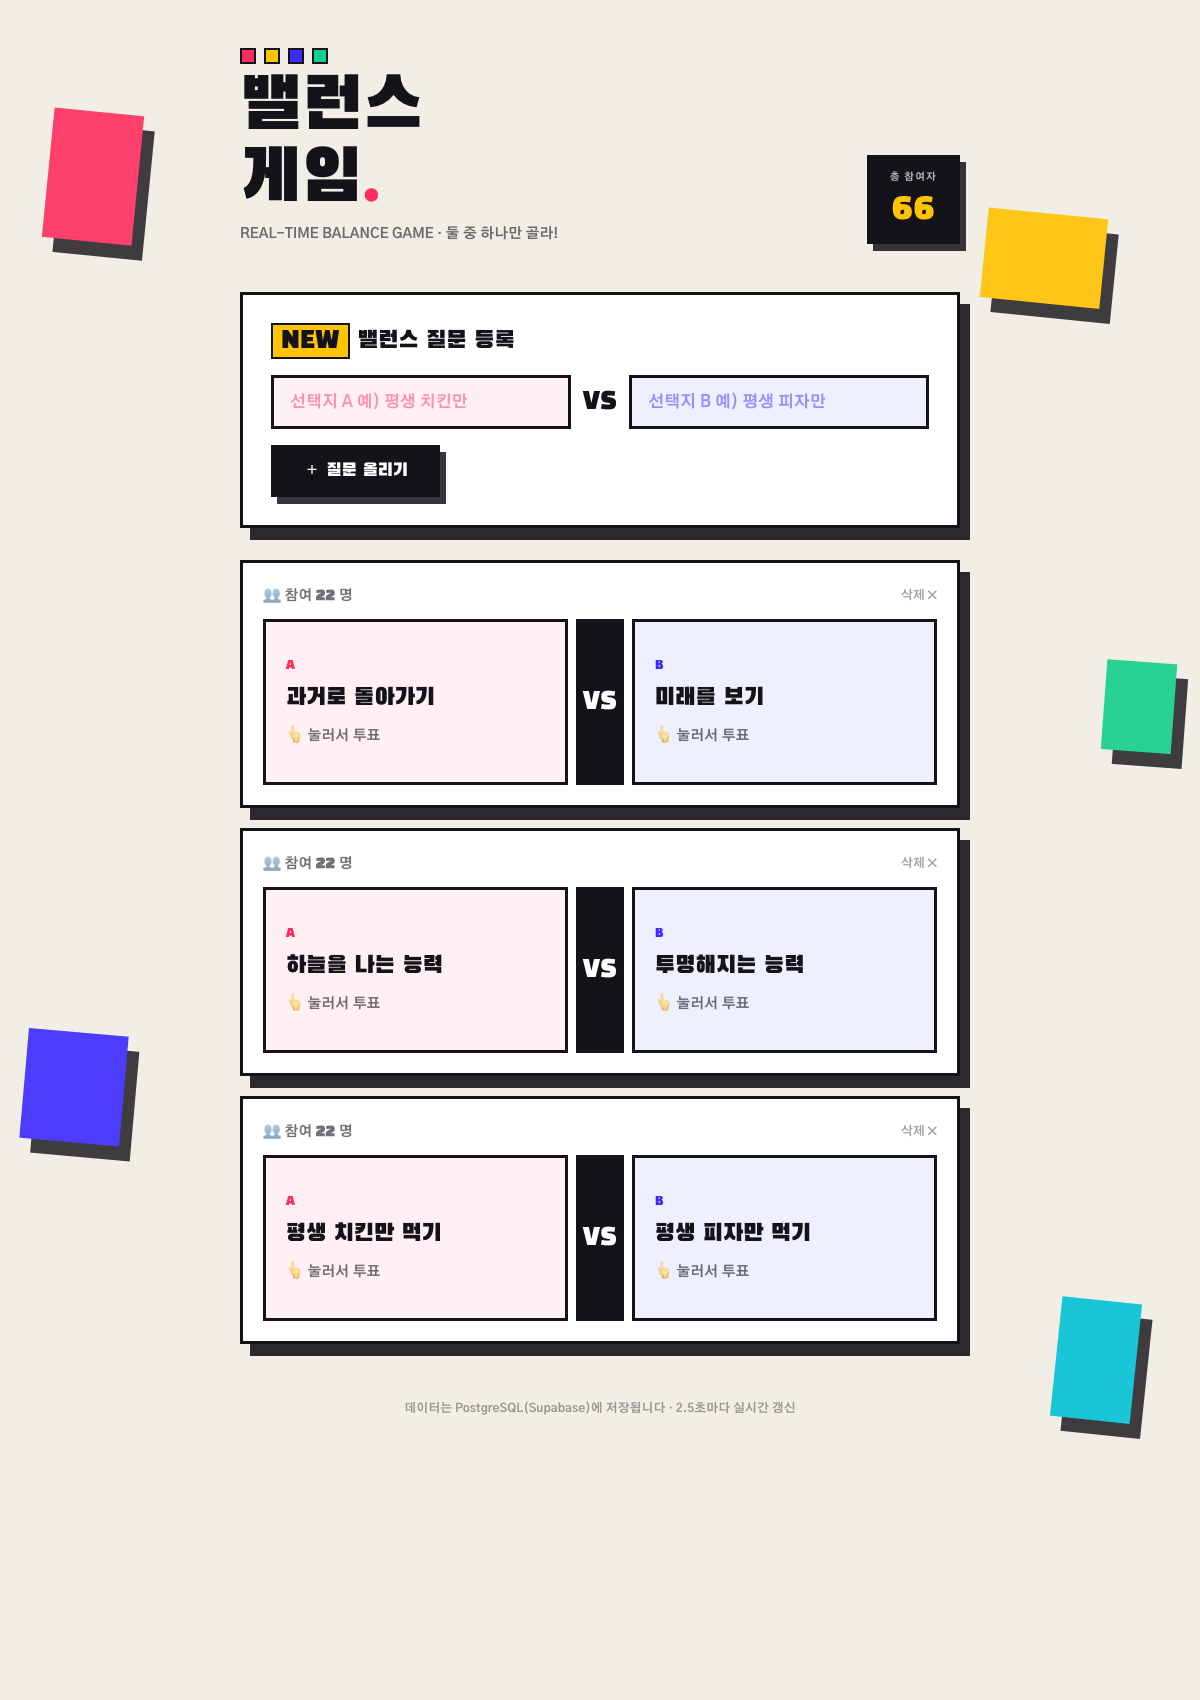
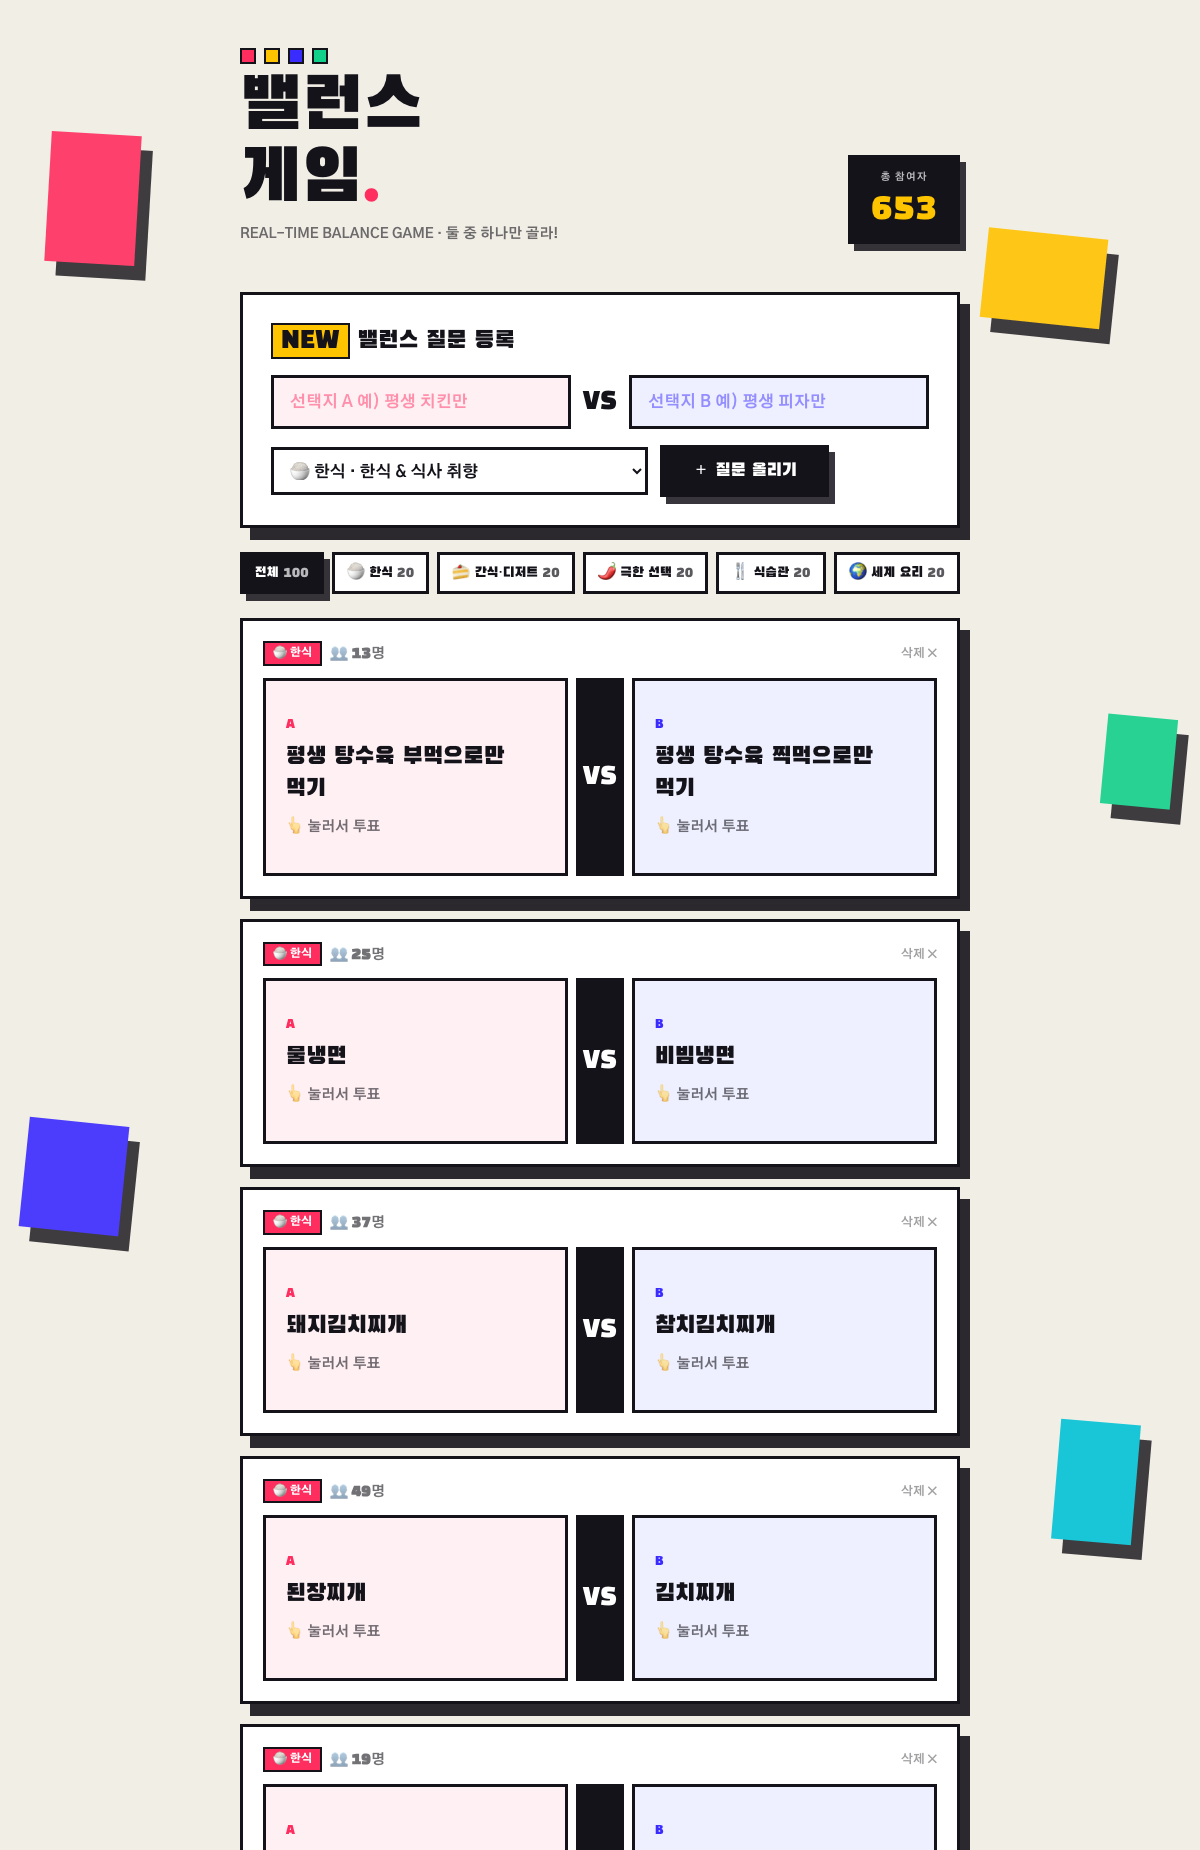
Load Food Balance 100 questions with category tabs
Food Balance.json의 음식 밸런스 100문항(카테고리 5종×20)을 DB에 시드.
balance_questions에 category 컬럼 추가, 카테고리 필터 탭 + 등록 폼 카테고리
선택 + 카드 카테고리 배지 추가. README/스크린샷 갱신.

diff --git a/0609NewTesttt/Week4/Homework4/05-1 NewbalanceGm/index.html b/0609NewTesttt/Week4/Homework4/05-1 NewbalanceGm/index.html
@@ -72,9 +72,9 @@
 
     const api = {
       list: () => fetch('/api/questions').then(r => r.json()),
-      add:  (optionA, optionB) => fetch('/api/questions', {
+      add:  (optionA, optionB, category) => fetch('/api/questions', {
         method: 'POST', headers: { 'Content-Type': 'application/json' },
-        body: JSON.stringify({ optionA, optionB }),
+        body: JSON.stringify({ optionA, optionB, category }),
       }).then(r => r.json()),
       vote: (id, choice) => fetch(`/api/questions/${id}/vote`, {
         method: 'POST', headers: { 'Content-Type': 'application/json' },
@@ -87,6 +87,16 @@
     const VOTED_KEY = 'balance_voted_v1';
     const loadVoted = () => { try { return JSON.parse(localStorage.getItem(VOTED_KEY)) || {}; } catch { return {}; } };
     const saveVoted = (m) => localStorage.setItem(VOTED_KEY, JSON.stringify(m));
+
+    // 카테고리 메타 (Food Balance.json 기준) — 탭 라벨 + 강조 색
+    const CATEGORIES = [
+      { key: 'korean_food',    tab: '🍚 한식',      full: '한식 & 식사 취향',            color: '#ff2e5f' },
+      { key: 'snack_dessert',  tab: '🍰 간식·디저트', full: '간식 & 디저트 & 야식',          color: '#ffc400' },
+      { key: 'extreme_choice', tab: '🌶 극한 선택',   full: '평생 하나만 먹기',             color: '#3a2bff' },
+      { key: 'eating_habit',   tab: '🍴 식습관',     full: '먹방 & 식습관',               color: '#00c2d6' },
+      { key: 'global_food',    tab: '🌍 세계 요리',   full: '양식 & 일식 & 중식 & 세계 요리', color: '#11d08a' },
+    ];
+    const CAT_BY_KEY = Object.fromEntries(CATEGORIES.map(c => [c.key, c]));
 
     // ----- 배경 3D 도형 -----
     function Shapes() {
@@ -110,6 +120,7 @@
     function NewQuestion({ onAdd }) {
       const [a, setA] = useState('');
       const [b, setB] = useState('');
+      const [cat, setCat] = useState(CATEGORIES[0].key);
       const [busy, setBusy] = useState(false);
       const [err, setErr] = useState('');
 
@@ -117,7 +128,7 @@
         e.preventDefault();
         if (!a.trim() || !b.trim()) { setErr('두 선택지를 모두 입력해 주세요.'); return; }
         setBusy(true); setErr('');
-        const res = await api.add(a.trim(), b.trim());
+        const res = await api.add(a.trim(), b.trim(), cat);
         setBusy(false);
         if (res.success) { setA(''); setB(''); onAdd(); }
         else setErr(res.message || '등록 실패');
@@ -139,10 +150,16 @@
               className="w-full bg-[#eef0ff] border-[3px] border-[#15131a] px-4 py-3 font-bold outline-none focus:bg-white placeholder:text-[#3a2bff]/50" />
           </div>
           {err && <p className="mt-3 text-[#ff2e5f] font-bold text-sm">⚠ {err}</p>}
-          <button disabled={busy}
-            className="display mt-4 w-full sm:w-auto bg-[#15131a] text-white text-lg px-8 py-3 block3d-sm hover:translate-x-[2px] hover:translate-y-[2px] hover:shadow-none transition active:scale-95 disabled:opacity-50">
-            {busy ? '등록 중…' : '＋ 질문 올리기'}
-          </button>
+          <div className="mt-4 flex flex-wrap items-center gap-3">
+            <select value={cat} onChange={e=>setCat(e.target.value)}
+              className="border-[3px] border-[#15131a] bg-white px-3 py-3 font-bold outline-none cursor-pointer">
+              {CATEGORIES.map(c => <option key={c.key} value={c.key}>{c.tab} · {c.full}</option>)}
+            </select>
+            <button disabled={busy}
+              className="display bg-[#15131a] text-white text-lg px-8 py-3 block3d-sm hover:translate-x-[2px] hover:translate-y-[2px] hover:shadow-none transition active:scale-95 disabled:opacity-50">
+              {busy ? '등록 중…' : '＋ 질문 올리기'}
+            </button>
+          </div>
         </form>
       );
     }
@@ -187,11 +204,20 @@
     // ----- 질문 카드 -----
     function QuestionCard({ q, voted, myChoice, onVote, onDelete }) {
       const showResult = voted;
+      const cat = CAT_BY_KEY[q.category];
       return (
         <div className="relative z-10 bg-white block3d border-[3px] border-[#15131a] p-4 sm:p-5">
           <div className="flex items-center justify-between mb-3">
-            <div className="font-bold text-sm opacity-60">
-              👥 참여 <span className="display text-base text-[#15131a] opacity-100">{q.total.toLocaleString()}</span> 명
+            <div className="flex items-center gap-2">
+              {cat && (
+                <span className="text-[11px] font-extrabold px-2 py-0.5 border-2 border-[#15131a]"
+                  style={{ background: cat.color, color: cat.color === '#ffc400' ? '#15131a' : '#fff' }}>
+                  {cat.tab}
+                </span>
+              )}
+              <span className="font-bold text-sm opacity-60">
+                👥 <span className="display text-base text-[#15131a] opacity-100">{q.total.toLocaleString()}</span>명
+              </span>
             </div>
             <button onClick={() => onDelete(q.id)} title="삭제"
               className="text-xs font-bold text-[#15131a]/40 hover:text-[#ff2e5f] transition">삭제 ✕</button>
@@ -222,8 +248,13 @@
       const [total, setTotal] = useState(0);
       const [voted, setVoted] = useState(loadVoted());
       const [loading, setLoading] = useState(true);
+      const [activeCat, setActiveCat] = useState('all'); // 'all' | 카테고리 key
       const votedRef = useRef(voted);
       votedRef.current = voted;
+
+      // 카테고리별 문항 수 + 현재 탭 기준 필터링
+      const countByCat = questions.reduce((m, q) => { m[q.category] = (m[q.category]||0)+1; return m; }, {});
+      const visible = activeCat === 'all' ? questions : questions.filter(q => q.category === activeCat);
 
       const refresh = useCallback(async () => {
         const res = await api.list();
@@ -290,19 +321,34 @@
             </header>
 
             {/* 등록 폼 */}
-            <div className="mb-8"><NewQuestion onAdd={refresh} /></div>
+            <div className="mb-6"><NewQuestion onAdd={refresh} /></div>
+
+            {/* 카테고리 필터 탭 */}
+            <div className="flex flex-wrap gap-2 mb-6">
+              {[{ key:'all', tab:'전체', color:'#15131a' }, ...CATEGORIES].map(c => {
+                const on = activeCat === c.key;
+                const n = c.key === 'all' ? questions.length : (countByCat[c.key] || 0);
+                return (
+                  <button key={c.key} onClick={() => setActiveCat(c.key)}
+                    className={`display text-sm px-3 py-2 border-[3px] border-[#15131a] transition active:scale-95 ${on ? 'block3d-sm text-white' : 'bg-white hover:-translate-y-0.5'}`}
+                    style={ on ? { background: c.color, color: c.color === '#ffc400' ? '#15131a' : '#fff' } : {} }>
+                    {c.tab} <span className="opacity-70">{n}</span>
+                  </button>
+                );
+              })}
+            </div>
 
             {/* 질문 목록 */}
             <div className="space-y-5">
               {loading ? (
                 <div className="text-center py-16 font-bold opacity-50">불러오는 중…</div>
-              ) : questions.length === 0 ? (
+              ) : visible.length === 0 ? (
                 <div className="bg-white border-[3px] border-dashed border-[#15131a]/40 p-12 text-center">
-                  <div className="display text-2xl mb-2">아직 질문이 없어요</div>
-                  <p className="font-bold opacity-60">위에서 첫 번째 밸런스 질문을 만들어 보세요!</p>
+                  <div className="display text-2xl mb-2">질문이 없어요</div>
+                  <p className="font-bold opacity-60">다른 카테고리를 골라보거나 위에서 새 질문을 만들어 보세요!</p>
                 </div>
               ) : (
-                questions.map(q => (
+                visible.map(q => (
                   <QuestionCard key={q.id} q={q}
                     voted={!!voted[q.id]} myChoice={voted[q.id]}
                     onVote={handleVote} onDelete={handleDelete} />

diff --git a/0609NewTesttt/Week4/Homework4/05-1 NewbalanceGm/server.js b/0609NewTesttt/Week4/Homework4/05-1 NewbalanceGm/server.js
@@ -34,6 +34,7 @@ function rowToQuestion(r) {
     id: r.id,
     optionA: r.option_a,
     optionB: r.option_b,
+    category: r.category || null,
     votesA,
     votesB,
     total,
@@ -50,8 +51,8 @@ function rowToQuestion(r) {
 app.get('/api/questions', async (_req, res) => {
   try {
     const { rows } = await query(
-      `SELECT id, option_a, option_b, votes_a, votes_b, created_at
-       FROM balance_questions ORDER BY created_at DESC, id DESC`
+      `SELECT id, option_a, option_b, category, votes_a, votes_b, created_at
+       FROM balance_questions ORDER BY id ASC`
     );
     const data = rows.map(rowToQuestion);
     const totalParticipants = data.reduce((sum, q) => sum + q.total, 0);
@@ -67,15 +68,16 @@ app.post('/api/questions', async (req, res) => {
   const b = req.body || {};
   const optionA = clean(b.optionA);
   const optionB = clean(b.optionB);
+  const category = clean(b.category, 40) || null;
   if (!optionA || !optionB) {
     return res.status(400).json({ success: false, message: '두 선택지를 모두 입력해 주세요.' });
   }
   try {
     const { rows } = await query(
-      `INSERT INTO balance_questions (option_a, option_b)
-       VALUES ($1, $2)
-       RETURNING id, option_a, option_b, votes_a, votes_b, created_at`,
-      [optionA, optionB]
+      `INSERT INTO balance_questions (option_a, option_b, category)
+       VALUES ($1, $2, $3)
+       RETURNING id, option_a, option_b, category, votes_a, votes_b, created_at`,
+      [optionA, optionB, category]
     );
     res.status(201).json({ success: true, data: rowToQuestion(rows[0]) });
   } catch (err) {
@@ -94,7 +96,7 @@ app.post('/api/questions/:id/vote', async (req, res) => {
   try {
     const { rows } = await query(
       `UPDATE balance_questions SET ${col} = ${col} + 1 WHERE id = $1
-       RETURNING id, option_a, option_b, votes_a, votes_b, created_at`,
+       RETURNING id, option_a, option_b, category, votes_a, votes_b, created_at`,
       [id]
     );
     if (rows.length === 0) return res.status(404).json({ success: false, message: '질문을 찾을 수 없습니다.' });

diff --git a/0609NewTesttt/Week4/Homework4/05-1 NewbalanceGm/db.js b/0609NewTesttt/Week4/Homework4/05-1 NewbalanceGm/db.js
@@ -26,10 +26,13 @@ const SCHEMA = [
     id          SERIAL PRIMARY KEY,
     option_a    TEXT NOT NULL,
     option_b    TEXT NOT NULL,
+    category    TEXT,
     votes_a     INTEGER NOT NULL DEFAULT 0,
     votes_b     INTEGER NOT NULL DEFAULT 0,
     created_at  TIMESTAMPTZ NOT NULL DEFAULT now()
   )`,
+  // 기존 테이블에도 category 컬럼 보강 (이미 있으면 무시)
+  `ALTER TABLE balance_questions ADD COLUMN IF NOT EXISTS category TEXT`,
 ];
 
 async function init() {

diff --git a/0609NewTesttt/Week4/Homework4/05-1 NewbalanceGm/README.md b/0609NewTesttt/Week4/Homework4/05-1 NewbalanceGm/README.md
@@ -5,6 +5,17 @@
 선택지별 득표 수와 **총 참여자 수**를 한눈에 볼 수 있습니다.
 모든 데이터는 **PostgreSQL(Supabase)** 에 저장됩니다.
 
+기본 문항으로 **음식 밸런스 게임(`Food Balance.json`) 100문항**이 5개 카테고리로 들어가 있고,
+상단 탭으로 카테고리별로 골라볼 수 있습니다.
+
+| 카테고리 | 설명 | 문항 |
+|---|---|---|
+| 🍚 한식 | 한식 & 식사 취향 | 20 |
+| 🍰 간식·디저트 | 간식 & 디저트 & 야식 | 20 |
+| 🌶 극한 선택 | 평생 하나만 먹기 | 20 |
+| 🍴 식습관 | 먹방 & 식습관 | 20 |
+| 🌍 세계 요리 | 양식 & 일식 & 중식 & 세계 요리 | 20 |
+
 디자인은 강렬한 3D 기하 도형이 떠다니는 포스터 무드(굵은 산세리프 + 하프톤 점 텍스처 + 입체 그림자)를 참고했습니다.
 
 ---
@@ -19,7 +30,8 @@
 
 ## ✨ 기능
 
-- **질문 등록** — 선택지 A vs B 두 개를 입력해 새 밸런스 질문을 올립니다.
+- **카테고리 탭** — 전체 / 한식 / 간식·디저트 / 극한 선택 / 식습관 / 세계 요리로 문항을 필터링합니다.
+- **질문 등록** — 선택지 A vs B 두 개와 카테고리를 골라 새 밸런스 질문을 올립니다.
 - **투표** — 둘 중 하나를 클릭하면 즉시 한 표가 반영됩니다 (낙관적 업데이트).
 - **실시간 퍼센티지** — 2.5초마다 자동 폴링하여 다른 사람의 투표까지 반영된 비율이 갱신됩니다.
 - **결과 표시** — 선택지별 퍼센티지·득표 수, 그리고 질문별 / 전체 **총 참여자 수**를 보여줍니다.
@@ -64,7 +76,7 @@ DATABASE_URL=postgresql://postgres.xxxx:비밀번호@aws-1-us-east-1.pooler.supa
 | 메서드 | 경로 | 설명 |
 |---|---|---|
 | `GET`    | `/api/questions`           | 질문 목록(최신순) + 전체 총 참여자 수 |
-| `POST`   | `/api/questions`           | 질문 등록 `{ optionA, optionB }` |
+| `POST`   | `/api/questions`           | 질문 등록 `{ optionA, optionB, category? }` |
 | `POST`   | `/api/questions/:id/vote`  | 투표 `{ choice: "a" \| "b" }` |
 | `DELETE` | `/api/questions/:id`       | 질문 삭제 |
 
@@ -79,6 +91,7 @@ CREATE TABLE IF NOT EXISTS balance_questions (
   id          SERIAL PRIMARY KEY,
   option_a    TEXT NOT NULL,
   option_b    TEXT NOT NULL,
+  category    TEXT,
   votes_a     INTEGER NOT NULL DEFAULT 0,
   votes_b     INTEGER NOT NULL DEFAULT 0,
   created_at  TIMESTAMPTZ NOT NULL DEFAULT now()
